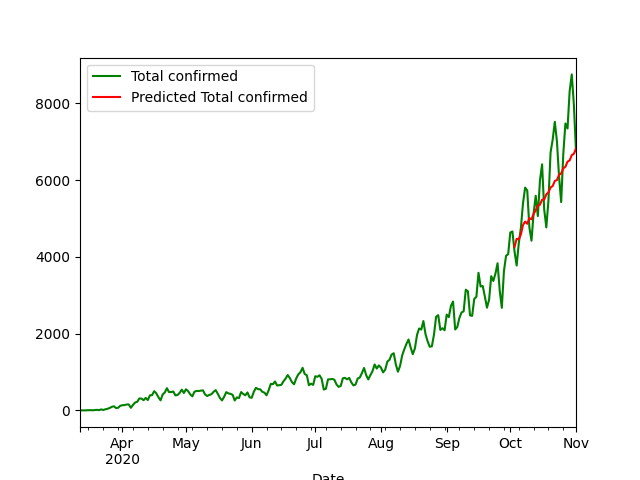
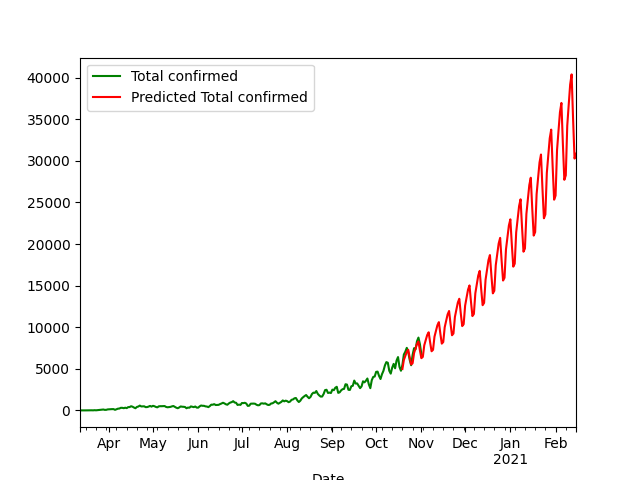
plots for today

diff --git a/main.py b/main.py
@@ -9,9 +9,12 @@ import pandas
 from mwtemplates import TemplateEditor
 
 import matplotlib.pyplot as plt
+from sklearn.neighbors import KNeighborsRegressor
 from sktime.forecasting.arima import AutoARIMA
+from sktime.forecasting.compose import ReducedRegressionForecaster, TransformedTargetForecaster
 from sktime.forecasting.exp_smoothing import ExponentialSmoothing
 from sktime.forecasting.trend import PolynomialTrendForecaster
+from sktime.transformers.single_series.detrend import Detrender, Deseasonalizer
 
 DATA_PATH = pathlib.Path(__file__).parent.joinpath('data')
 PLOTS_PATH = pathlib.Path(__file__).parent.joinpath('plots')
@@ -57,9 +60,14 @@ def read_csv(f):
     ).astype({'Total confirmed': 'int32'})
 
 
-def learn(series):
-    model = AutoARIMA(sp=7)
-    model.fit(series[:-30])
+def learn(series_data):
+    model = TransformedTargetForecaster([
+        ("deseasonalise", Deseasonalizer(model="multiplicative", sp=7)),
+        ("detrend", Detrender(forecaster=PolynomialTrendForecaster(degree=4))),
+        ("forecast", PolynomialTrendForecaster(degree=4))
+    ])
+    # model = ExponentialSmoothing(sp=21)
+    model.fit(series_data[:-14])
     return model
 
 
@@ -67,8 +75,8 @@ def build_training_data():
     return data['Total confirmed'].diff().asfreq('1D', method='ffill').dropna() + 1
 
 
-def predict():
-    fh = numpy.arange(30) + 1
+def predict(model):
+    fh = numpy.arange(120) + 1
     return model.predict(fh).rename('Predicted Total confirmed')
 
 
@@ -76,6 +84,7 @@ def build_plot(series, predicted):
     plt.figure()
     series.plot(color='g')
     predicted.plot(color='r')
+
     plt.legend()
     PLOTS_PATH.mkdir(parents=True, exist_ok=True)
     plot_file = PLOTS_PATH.joinpath(datetime.today().strftime('%y_%m_%d.png'))
@@ -86,6 +95,6 @@ def build_plot(series, predicted):
 if __name__ == '__main__':
     data = parse_wiki()
     series = build_training_data()
-    model = learn(series)
-    predicted = predict()
+    model_v = learn(series)
+    predicted = predict(model_v)
     build_plot(series, predicted)
